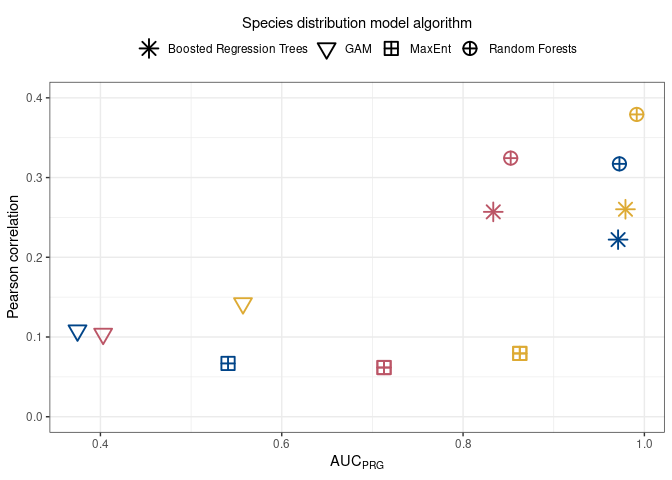
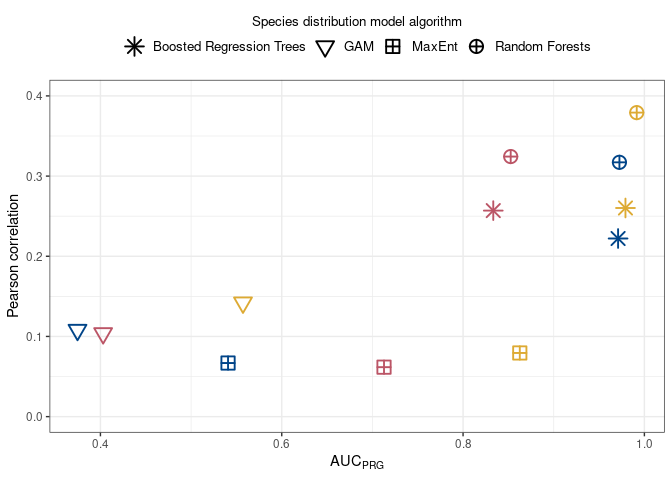
adding GH friendly version

diff --git a/Scripts/05_SDMs/09_Variable_importance_plots.md b/Scripts/05_SDMs/09_Variable_importance_plots.md
@@ -49,12 +49,15 @@ var_imp_plot <- function(ggobj, mod_name, lims){
   p <- ggobj$data %>% 
     #arrange by variable importance
     arrange(desc(Permutation_importance)) %>% 
-    rowid_to_column("id") %>% 
+    # rowid_to_column("id") %>% 
     #calculate cumulative sum for importance contribution
     mutate(cum_sum = cumsum(Permutation_importance),
-           #blue colours if cum sum up to 60%
-           fill = case_when((cum_sum <= 0.6 | id == 1) ~ "#004488",
-                            T ~ "#bbbbbb")) %>% 
+           #assign value of 1 if cum sum is over 50%
+           fill = case_when(cum_sum > 0.5 ~ 1, T ~ 0),
+           #calculate cumulative sum for this column
+           fill = cumsum(fill),
+           #assign blue colour if column is 0 or 1, otherwise assign grey
+           fill = case_when(fill <= 1 ~ "#004488", T ~ "#bbbbbb")) %>% 
     #Initialise plot
     ggplot(aes(y = Variable, x = Permutation_importance, fill = fill))+
     #Column plot
@@ -84,11 +87,14 @@ mod_full_plots <- list()
 for(i in seq_along(mod_full)){
   #Get model name from file name
   model <- str_remove(basename(mod_full[i]), "_var.*")
+  if(model == "Maxent"){
+    model <- "MaxEnt"
+  }
   #Load ggplot2 object
   ggobj <- readRDS(mod_full[i])
   p <- var_imp_plot(ggobj, model, c(0, .30))
-  #If first two plots, then make x axis title bank
-  if(i < 3){
+  #If models are on the first row (BRT or RF), remove x axis title
+  if(str_detect(model, "BRT|RF")){
     p <- p+
       labs(x = "")
   }
@@ -97,7 +103,9 @@ for(i in seq_along(mod_full)){
 }
 
 #Turn into a single plot
-mod_full_plots <- plot_grid(plotlist = mod_full_plots, nrow = 2, 
+mod_full_plots <- plot_grid(mod_full_plots$RF, mod_full_plots$BRT,
+                            mod_full_plots$MaxEnt, mod_full_plots$GAM,
+                            nrow = 2, 
                             labels = c("A", "B", "C", "D"))
 
 ggsave("../../SDM_outputs/var_imp_mod_full.png", mod_full_plots, 
@@ -120,13 +128,16 @@ mod_match_obs_plots <- list()
 for(i in seq_along(mod_match_obs)){
   #Get model name from file name
   model <- str_remove(basename(mod_match_obs[i]), "_var.*")
+  if(model == "Maxent"){
+    model <- "MaxEnt"
+  }
   #Load ggplot2 object
   ggobj <- readRDS(mod_match_obs[i])
   #Create plot
   p <- var_imp_plot(ggobj, model, c(0, .45))
   
-  #If first two plots, then make x axis title bank
-  if(i < 3){
+  #If models are on the first row (BRT or RF), remove x axis title
+  if(str_detect(model, "BRT|RF")){
     p <- p+
       labs(x = "")
   }
@@ -135,7 +146,11 @@ for(i in seq_along(mod_match_obs)){
 }
 
 #Turn into a single plot
-mod_match_obs_plots <- plot_grid(plotlist = mod_match_obs_plots, nrow = 2, 
+mod_match_obs_plots <- plot_grid(mod_match_obs_plots$RF, 
+                                 mod_match_obs_plots$BRT, 
+                                 mod_match_obs_plots$MaxEnt, 
+                                 mod_match_obs_plots$GAM,
+                                 nrow = 2, 
                             labels = c("A", "B", "C", "D"))
 
 ggsave("../../SDM_outputs/var_imp_mod_match_obs.png", mod_match_obs_plots, 
@@ -158,13 +173,16 @@ obs_plots <- list()
 for(i in seq_along(obs)){
   #Get model name from file name
   model <- str_remove(basename(obs[i]), "_var.*")
+  if(model == "Maxent"){
+    model <- "MaxEnt"
+  }
   #Load ggplot2 object
   ggobj <- readRDS(obs[i])
   #Create plot
   p <- var_imp_plot(ggobj, model, c(0, .65))
   
-  #If first two plots, then make x axis title bank
-  if(i < 3){
+  #If models are on the first row (BRT or RF), remove x axis title
+  if(str_detect(model, "BRT|RF")){
     p <- p+
       labs(x = "")
   }
@@ -173,7 +191,8 @@ for(i in seq_along(obs)){
 }
 
 #Turn into a single plot
-obs_plots <- plot_grid(plotlist = obs_plots, nrow = 2, 
+obs_plots <- plot_grid(obs_plots$RF, obs_plots$BRT, obs_plots$MaxEnt, 
+                       obs_plots$GAM, nrow = 2, 
                        labels = c("A", "B", "C", "D"))
 
 ggsave("../../SDM_outputs/var_imp_obs.png", obs_plots, 

diff --git a/Scripts/05_SDMs/08_SDMs_performance_plots.md b/Scripts/05_SDMs/08_SDMs_performance_plots.md
@@ -38,7 +38,7 @@ mod_eval_path <- "../../SDM_outputs/model_evaluation.csv"
 model_eval <- read_csv(mod_eval_path) 
 ```
 
-    ## Rows: 14 Columns: 6
+    ## Rows: 12 Columns: 6
     ## ── Column specification ────────────────────────────────────────────────────────
     ## Delimiter: ","
     ## chr (2): model, env_trained
@@ -82,7 +82,9 @@ bars <- model_eval %>%
   #Improving plot
   theme(axis.title = element_blank(), panel.grid.major.x = element_blank(),
         panel.grid.minor.y = element_blank(), strip.text.y = element_blank(),
-        legend.position = "top", panel.spacing.y = unit(0.35, "cm"))
+        legend.position = "top", panel.spacing.y = unit(0.35, "cm"), 
+        legend.title = element_text(size = 10), 
+        legend.text = element_text(size = 10))
 
 bars
 ```
@@ -118,7 +120,8 @@ scatter <- model_eval %>%
   scale_colour_manual(values = c("#ddaa33", "#bb5566", "#004488"))+
   #Change legend title position
   theme(legend.title.position = "top", 
-        legend.title = element_text(hjust = 0.5))+
+        legend.title = element_text(hjust = 0.5, size = 10), 
+        legend.text = element_text(size = 10))+
   lims(y = c(0, 0.4))
 
 scatter
